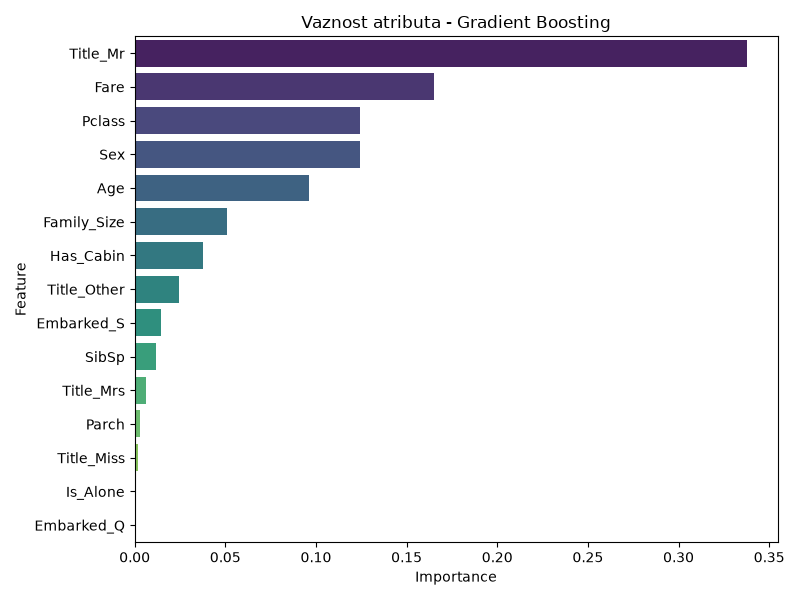
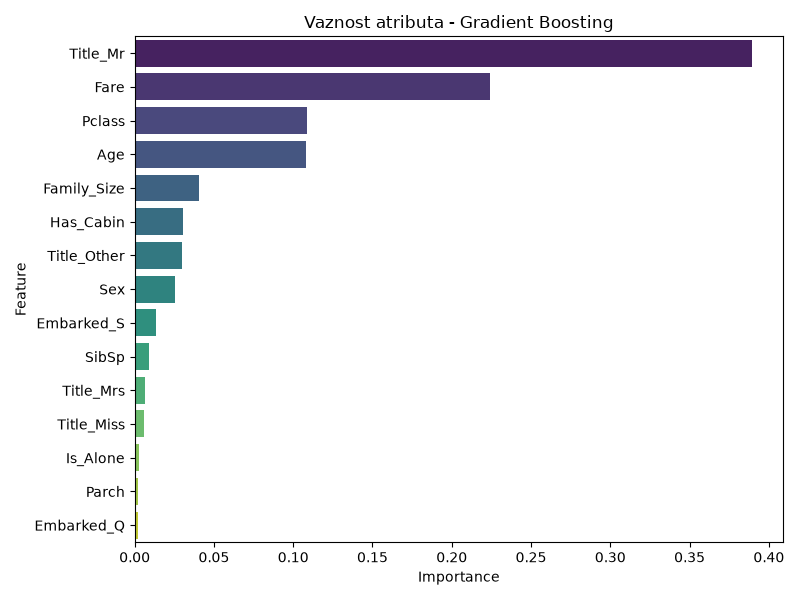
Novi grafici, dodata dokumentacija i sitnice

diff --git a/src/eda.py b/src/eda.py
@@ -119,4 +119,37 @@ plt.tight_layout()
 plt.savefig("results/figures/eda_korelaciona_mapa.png")
 plt.close()
 
+# =============================================================
+# 8. Prezivljavanje po tituli
+# =============================================================
+plt.figure(figsize=(8, 5))
+sns.countplot(data=df, x="Title", hue="Survived",
+              palette={0: "#e74c3c", 1: "#2ecc71"},
+              order=["Mr", "Miss", "Mrs", "Master", "Other"])
+plt.title("Preživljavanje po tituli")
+plt.xlabel("Titula")
+plt.ylabel("Broj putnika")
+plt.legend(["Nije preživeo", "Preživeo"])
+plt.tight_layout()
+plt.savefig("results/figures/eda_prezivljavanje_po_tituli.png")
+plt.close()
+
+# =============================================================
+# 9. Raspodela cene karte po prezivljavanju
+# =============================================================
+plt.figure(figsize=(8, 5))
+sns.boxplot(data=df, x="Survived", y="Fare",
+            hue="Survived",
+            palette={0: "#e74c3c", 1: "#2ecc71"},
+            legend=False)
+plt.ylim(0, 300)
+plt.title("Cena karte po preživljavanju")
+plt.xlabel("Preživeo")
+plt.xticks([0, 1], ["Nije preživeo", "Preživeo"])
+plt.ylabel("Cena karte")
+plt.tight_layout()
+plt.savefig("results/figures/eda_prezivljavanje_po_ceni_karte.png")
+plt.close()
+
+
 print("Svi EDA grafici sacuvani u results/figures/")

diff --git a/src/grid_search.py b/src/grid_search.py
@@ -38,7 +38,7 @@ konfiguracije = [
         "naziv": "Random Forest (GS)",
         "model": RandomForestClassifier(random_state=42),
         "parametri": {
-            "n_estimators": [50, 100, 200],
+            "n_estimators": [50, 100, 150, 200],
             "max_depth": [None, 5, 10],
             "min_samples_split": [2, 5]
         },
@@ -77,7 +77,7 @@ konfiguracije = [
         "naziv": "SVM (GS)",
         "model": SVC(random_state=42),
         "parametri": {
-            "C": [0.1, 1, 10],
+            "C": [0.1, 1, 10, 100],
             "kernel": ["linear", "rbf", "poly"]
         },
         "skalirano": True

diff --git a/models/gradient_boosting.py b/models/gradient_boosting.py
@@ -23,7 +23,7 @@ def kreiraj_model():
     """
     model = GradientBoostingClassifier(
         n_estimators=100,
-        learning_rate=0.1,
+        learning_rate=0.2,
         random_state=42
     )
     return model